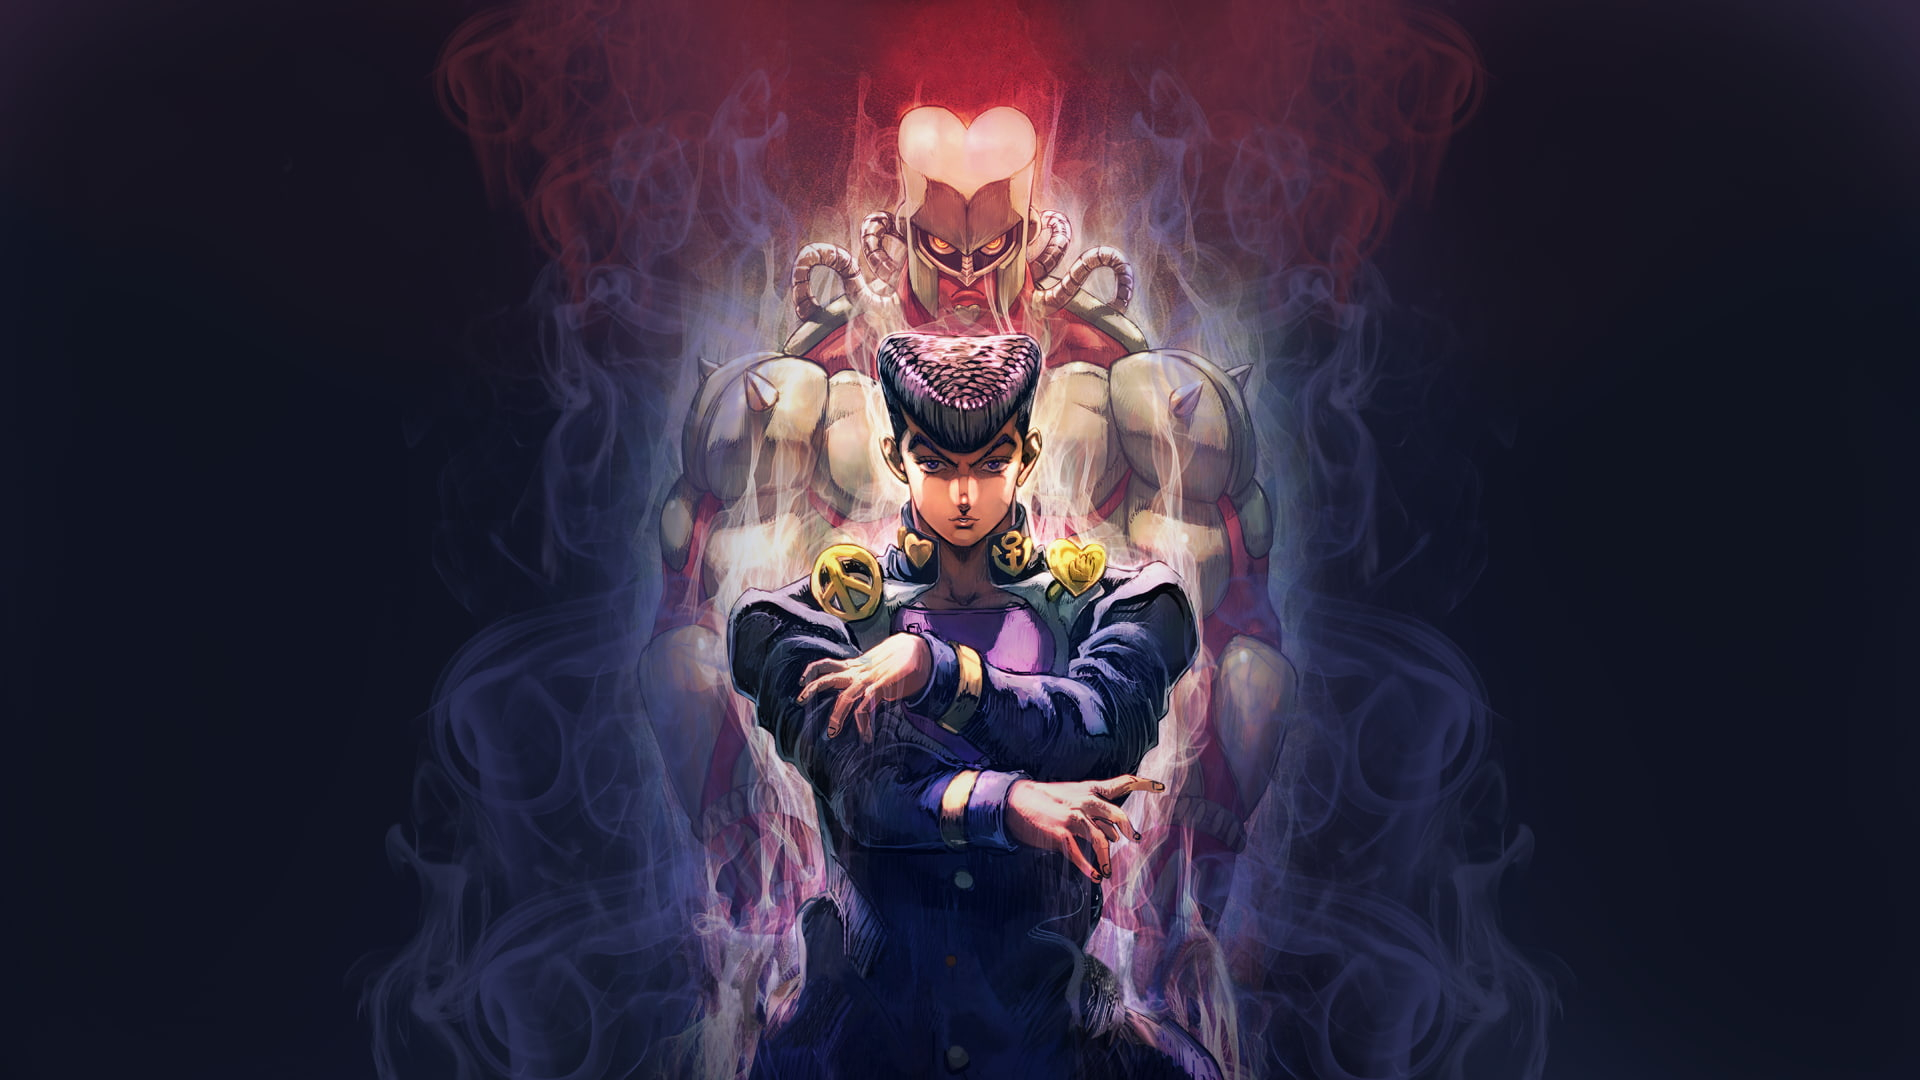
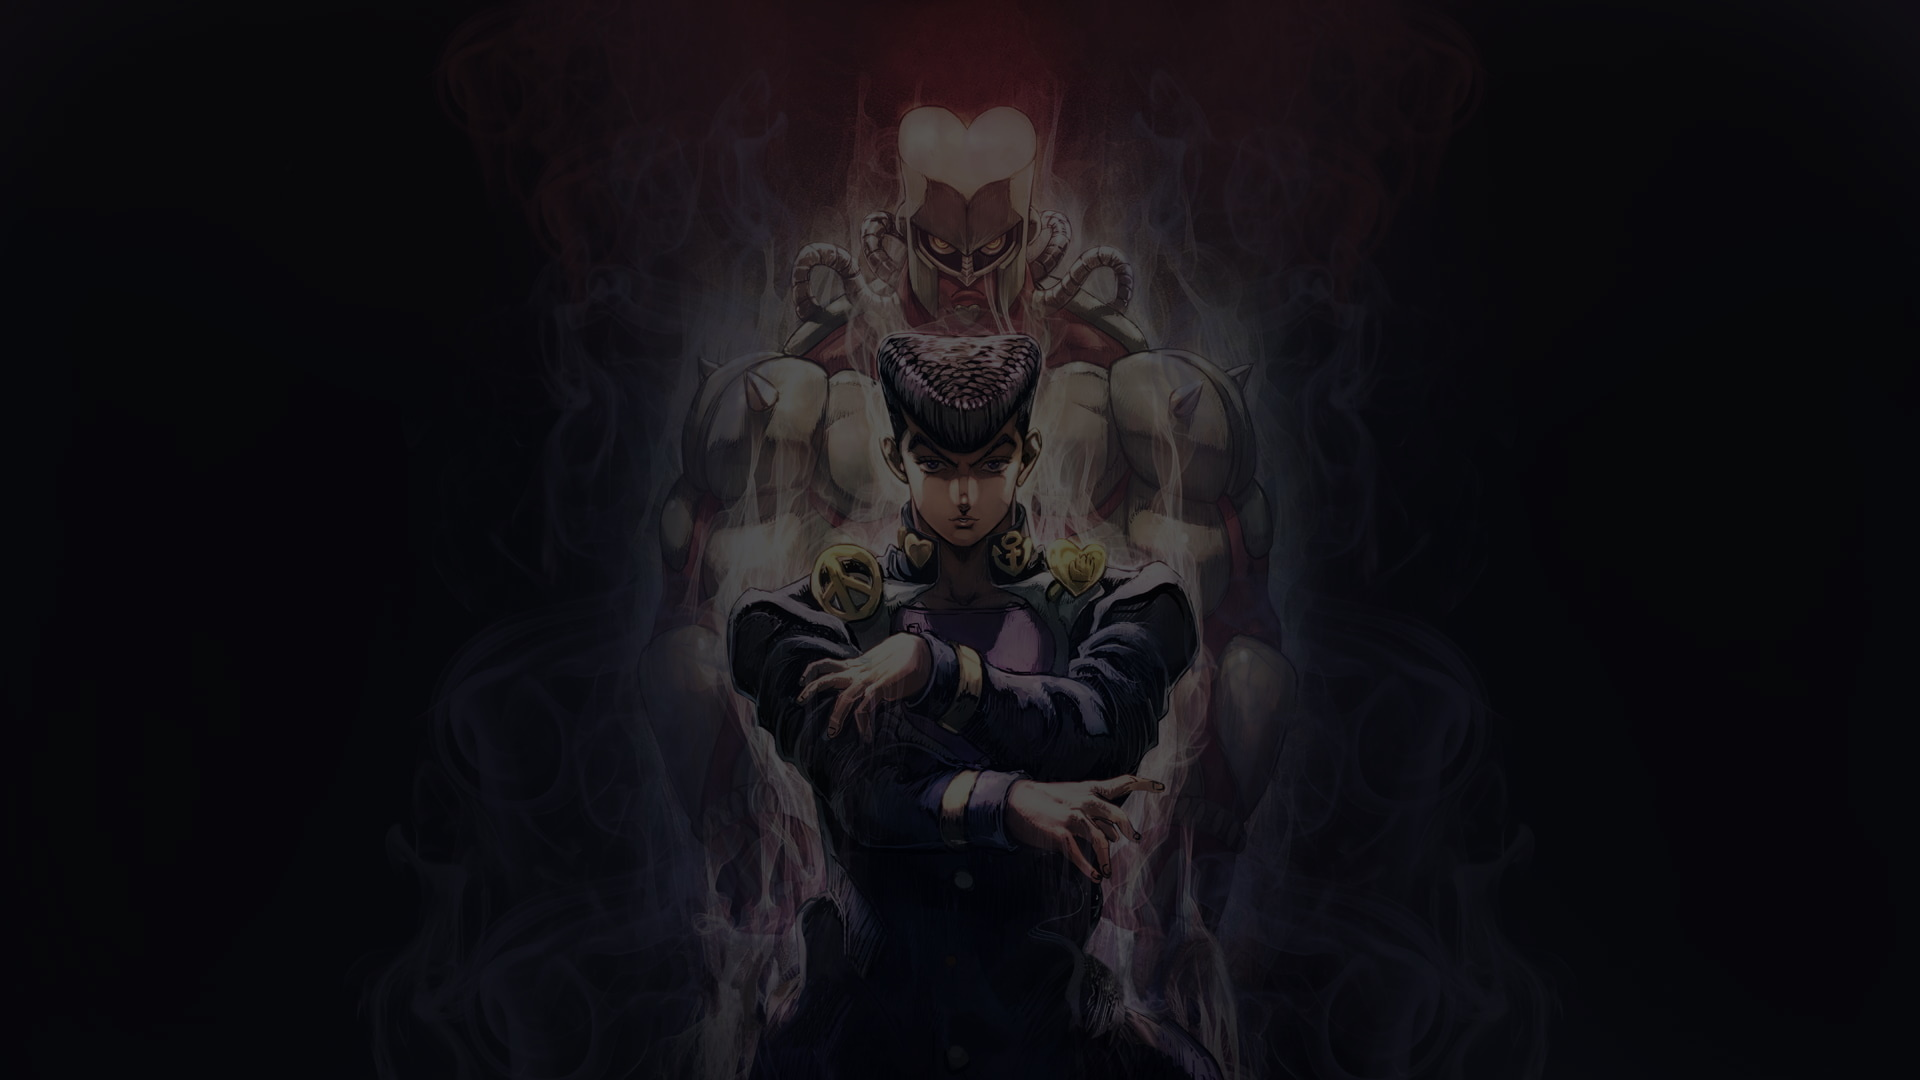
fgfdg

diff --git a/css/style.css b/css/style.css
@@ -1,17 +1,180 @@
-/* Error: expected selector.
- *   ,
- * 2 | <<<<<<< HEAD
- *   | ^
- *   '
- *   scss\style.scss 2:1  root stylesheet */
-
-body::before {
-  font-family: "Source Code Pro", "SF Mono", Monaco, Inconsolata, "Fira Mono",
-      "Droid Sans Mono", monospace, monospace;
-  white-space: pre;
-  display: block;
-  padding: 1em;
-  margin-bottom: 1em;
-  border-bottom: 2px solid black;
-  content: "Error: expected selector.\a   \2577 \a 2 \2502  <<<<<<< HEAD\d\a   \2502  ^\a   \2575 \a   scss\\style.scss 2:1  root stylesheet";
+body {
+  overflow: hidden;
+  margin: 0;
+  font-family: "Bangers", cursive;
 }
+
+.Loader {
+  width: 100vw;
+  height: 100vh;
+  background-color: black;
+  opacity: 0.7;
+  position: absolute;
+  transition: 2s ease;
+  flex-direction: column;
+  align-items: center;
+  justify-content: center;
+  z-index: 2;
+}
+.Loader .icoloader {
+  width: 100px;
+  height: 100px;
+  background-color: white;
+}
+
+.Main {
+  width: 100vw;
+  background-color: white;
+  display: flex;
+  flex-direction: column;
+}
+.Main .navbar {
+  width: 100%;
+  height: 15vh;
+  max-height: 60px;
+  background-color: lightgreen;
+  z-index: 2;
+}
+.Main .navbar .btn_burger {
+  height: 100%;
+  border: none;
+  width: 100px;
+  background-color: lightgreen;
+}
+.Main .navbar .btn_burger div {
+  width: 50%;
+  height: 5px;
+  background-color: white;
+  margin: 6px 19px;
+}
+.Main .flex-menucover {
+  width: 100%;
+  height: 100vh;
+  background-color: white;
+  display: flex;
+  flex-direction: row;
+}
+.Main .flex-menucover .menu {
+  height: 100vh;
+  background-color: black;
+  position: relative;
+  color: white;
+  overflow: hidden;
+  background-image: url("../img/hdjojo.jpg");
+  background-position: 58% center;
+  background-repeat: no-repeat;
+  background-size: cover;
+  /* display:block; */
+  z-index: 2;
+  font-size: 1.5em;
+  transition: width 0.4s ease;
+}
+.Main .flex-menucover .menu a {
+  text-decoration: none;
+}
+.Main .flex-menucover .menu a:link {
+  color: yellow;
+}
+.Main .flex-menucover .menu a:visited {
+  color: green;
+}
+.Main .flex-menucover .menu a:hover {
+  color: red;
+}
+.Main .flex-menucover .menu a:active {
+  color: blue;
+}
+.Main .flex-menucover .menu .li-hidden-1 {
+  display: none;
+}
+.Main .flex-menucover .menu .li-hidden-2 {
+  display: none;
+}
+.Main .flex-menucover .menu .li-hidden-3 {
+  display: none;
+}
+.Main .flex-menucover .menu .li-hidden-4 {
+  display: none;
+}
+.Main .flex-menucover .menu .li-visible-1:hover .li-hidden-1 {
+  display: block;
+}
+.Main .flex-menucover .menu .li-visible-2:hover .li-hidden-2 {
+  display: block;
+}
+.Main .flex-menucover .menu .li-visible-3:hover .li-hidden-3 {
+  display: block;
+}
+.Main .flex-menucover .menu .li-visible-4:hover .li-hidden-4 {
+  display: block;
+}
+.Main .flex-menucover .menu li {
+  list-style-image: url("https://imgur.com/ppjxRWs");
+}
+.Main .flex-menucover .cover {
+  position: relative;
+  z-index: 0;
+  width: 100%;
+  height: 100vh;
+  background-image: url(../img/bgTiles.png);
+  background-repeat: repeat;
+  animation: 20s linear infinite slide;
+  color: white;
+}
+
+@keyframes slide {
+  from {
+    background-position: 0px 0px;
+  }
+  to {
+    background-position: 356px 482px;
+  }
+}
+.menu-is-closed {
+  width: 0px;
+  height: 0px;
+}
+
+.slide_cover {
+  margin-left: 250px;
+}
+
+.menu-is-open {
+  width: 250px;
+  height: 100vh;
+}
+
+.loader-is-closed {
+  display: none;
+}
+
+.loader-is-open {
+  display: flex;
+}
+
+.backdrop {
+  width: 100vw;
+  height: 100vh;
+  z-index: 1;
+  position: absolute;
+  background-color: black;
+  opacity: 0.4;
+}
+
+.uDisappear {
+  display: none;
+}
+
+.uApprear {
+  display: block;
+}
+
+.fftext {
+  font-family: "Montserrat", sans-serif;
+}
+
+.fftitle {
+  font-family: "Bangers", cursive;
+}
+
+/*# sourceMappingURL=style.css.map */

diff --git a/scss/style.scss b/scss/style.scss
@@ -1,8 +1,5 @@
 @import "_variables.scss";
-<<<<<<< HEAD
-=======
 
->>>>>>> 1e9cfb96a23438c9b6b42008e3d92f9306d4b52d
 body{
 	overflow: hidden;
 	margin: 0;
